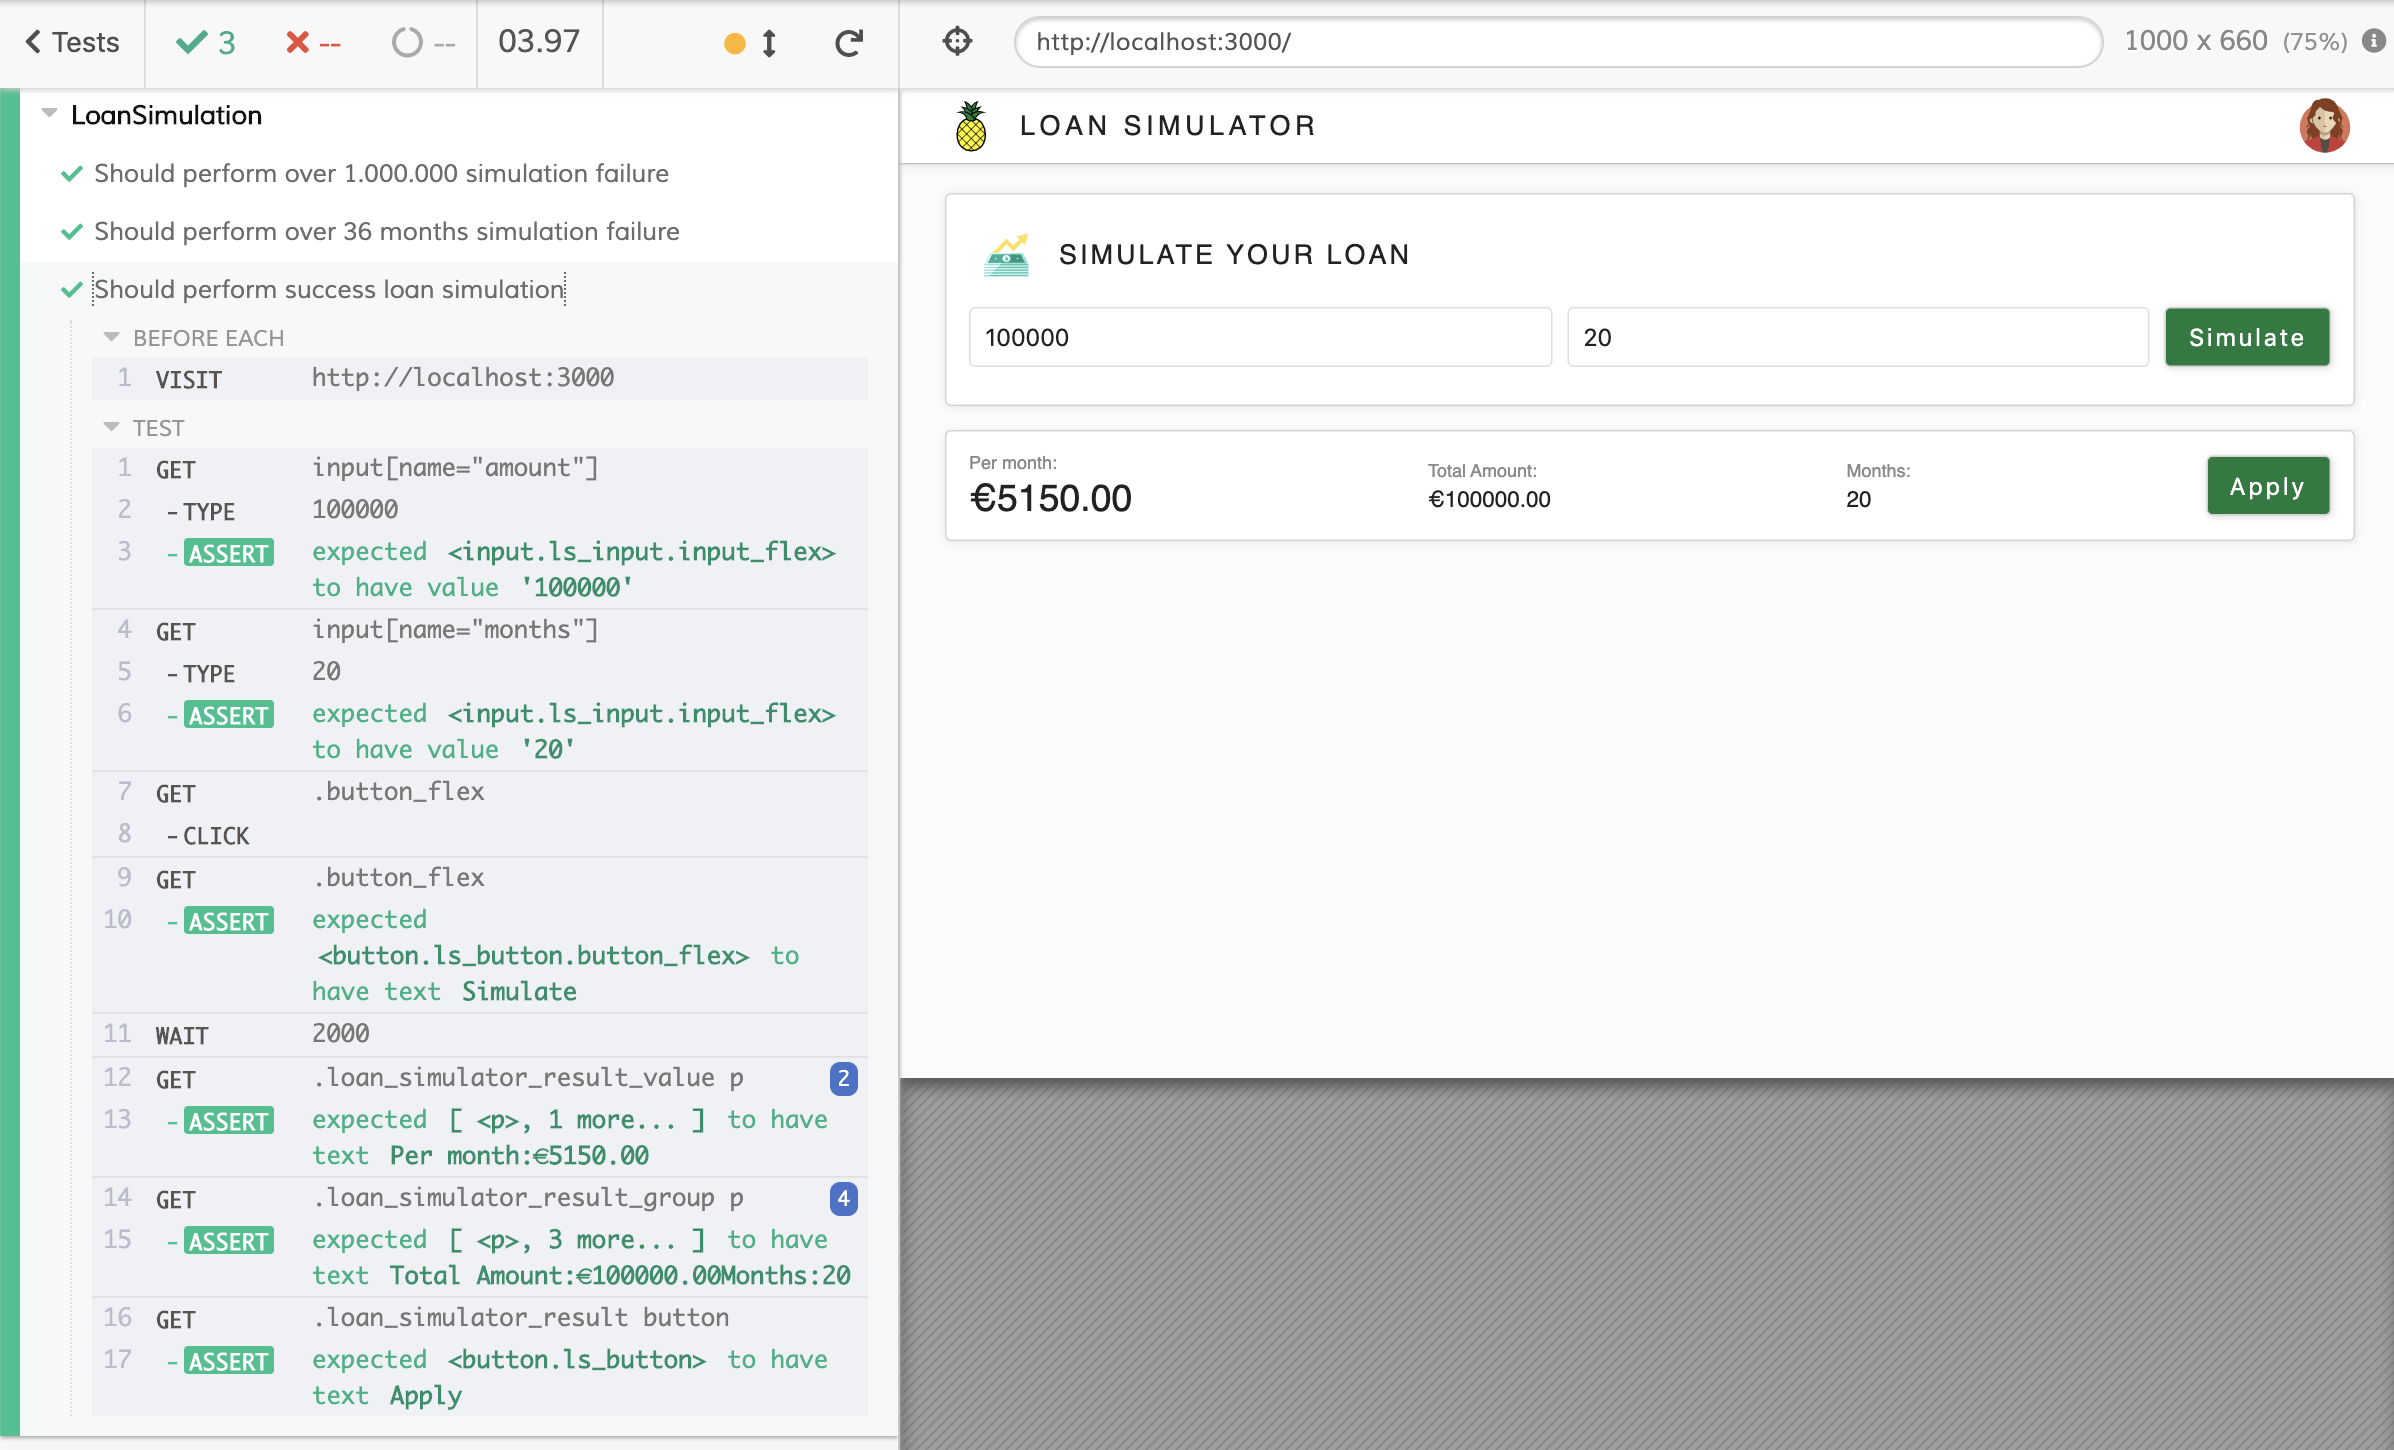
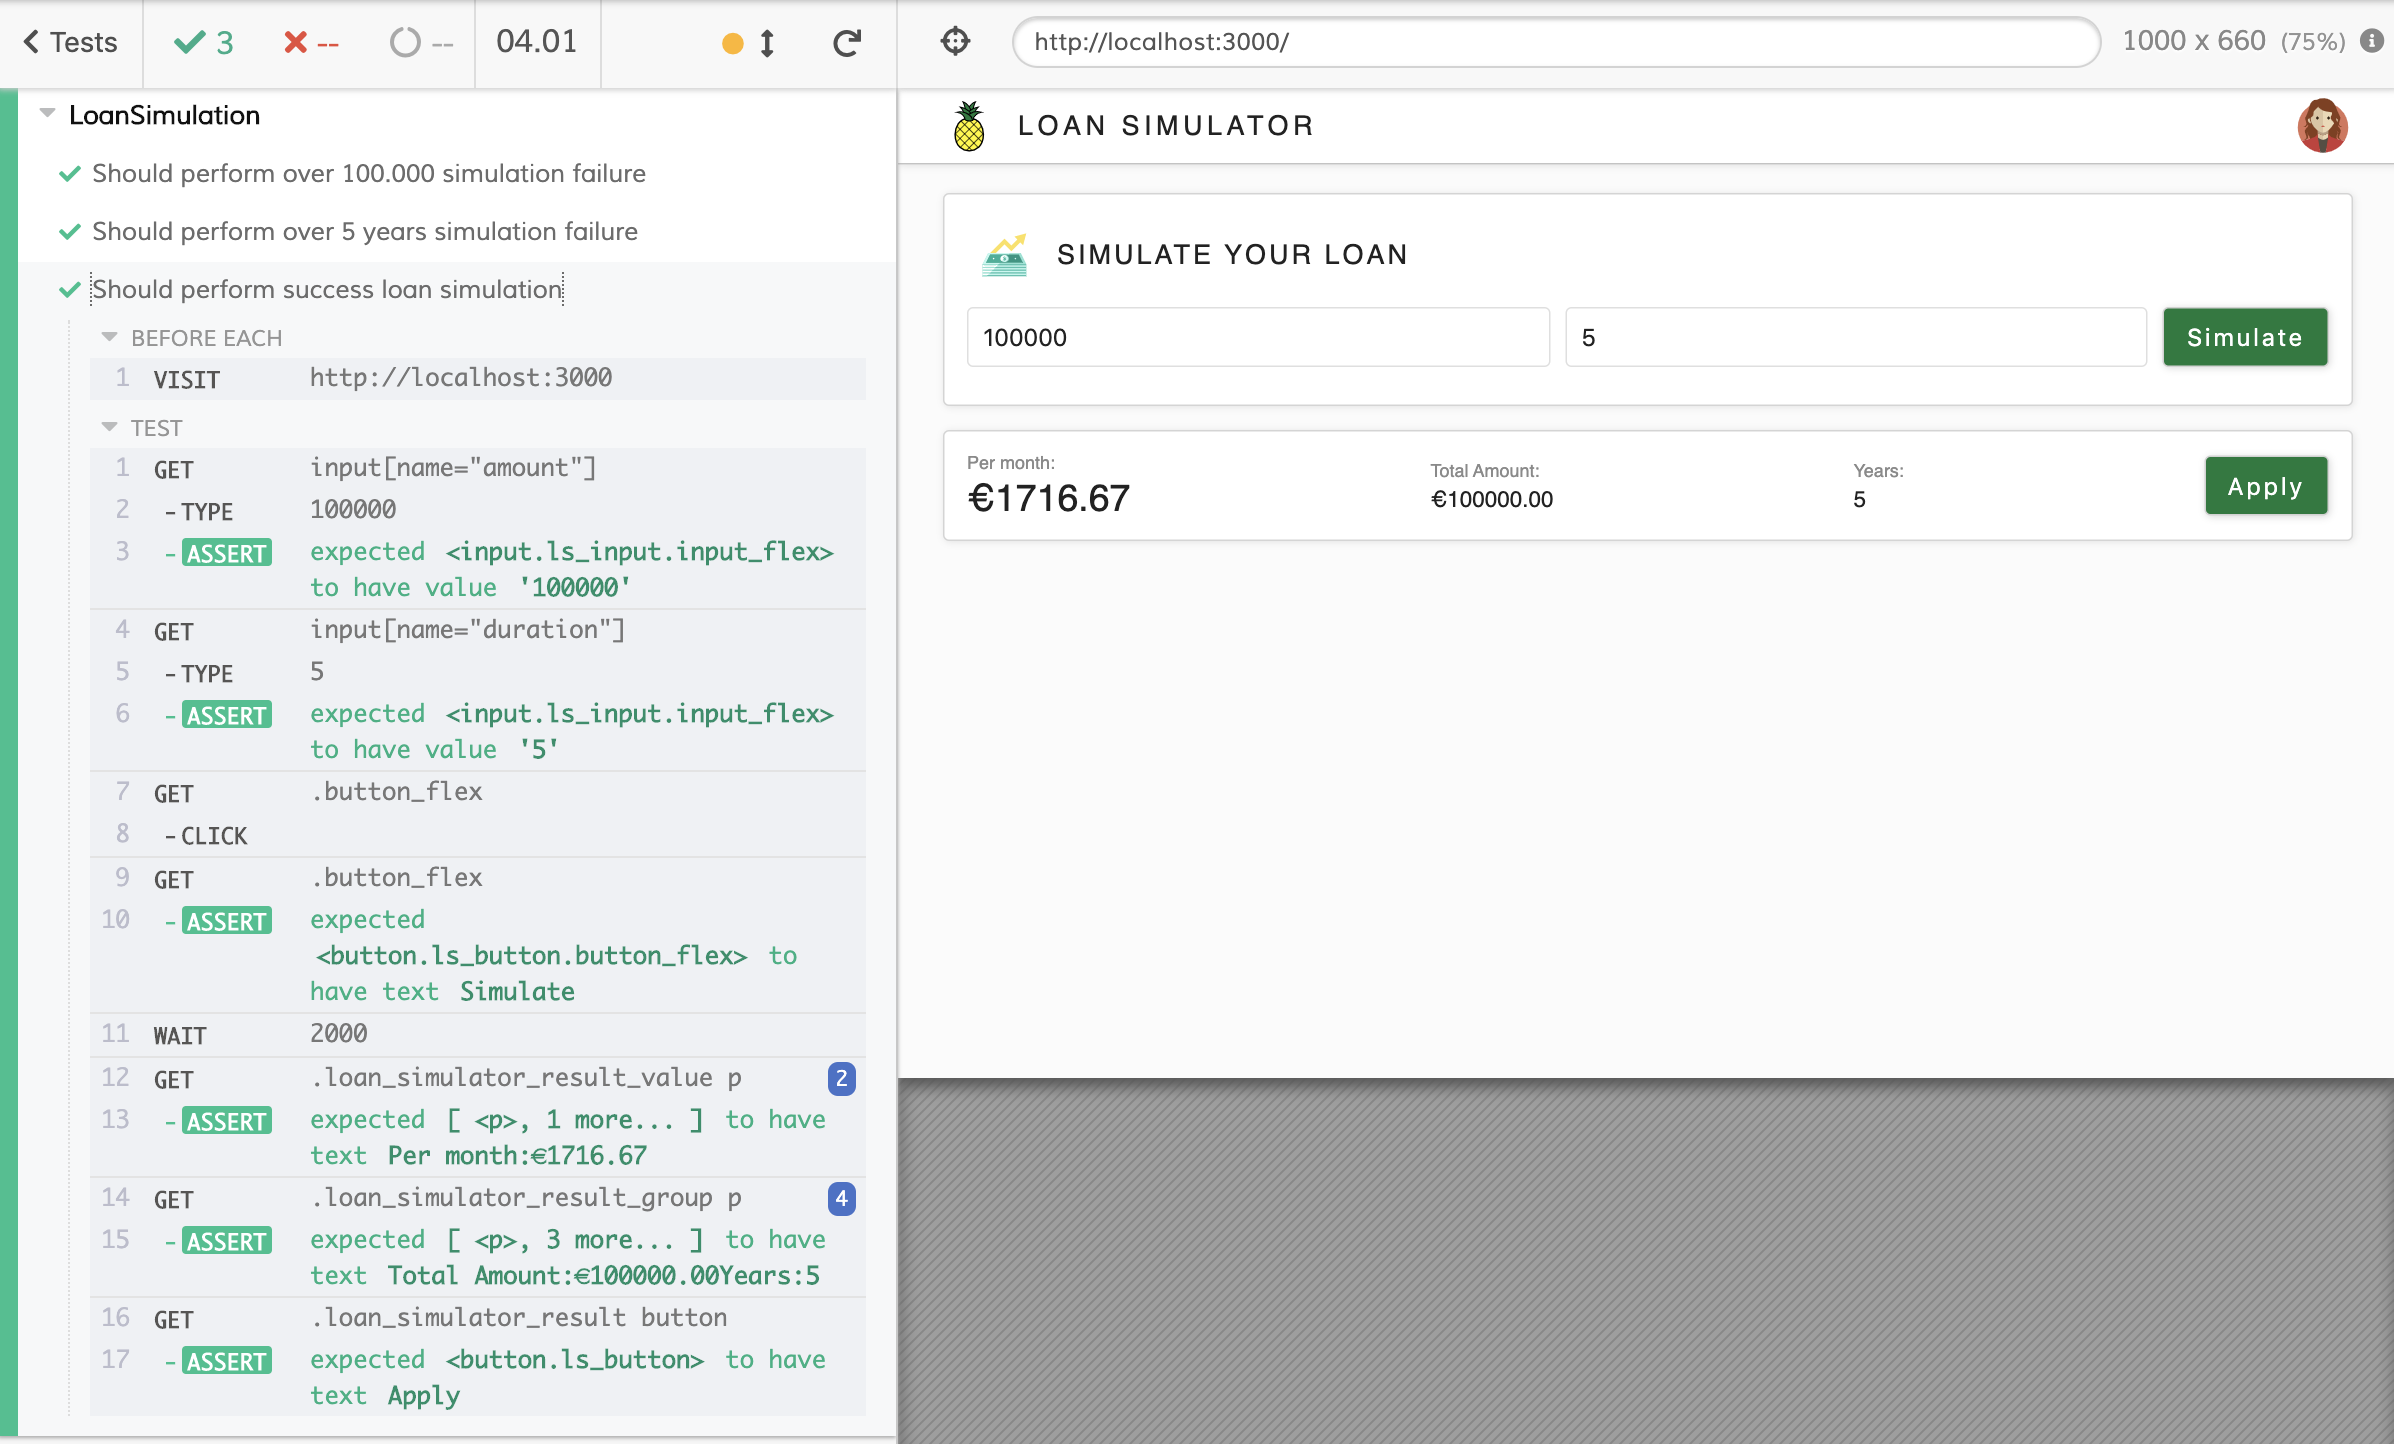
chore(validation): add proper value validation

diff --git a/cypress/integration/loan_simulation_flow.spec.js b/cypress/integration/loan_simulation_flow.spec.js
@@ -7,13 +7,13 @@ context('LoanSimulation', () => {
 
   // https://on.cypress.io/interacting-with-elements
 
-  it('Should perform over 1.000.000 simulation failure', () => {
+  it('Should perform over 100.000 simulation failure', () => {
     // https://on.cypress.io/type
     cy.get('input[name="amount"]')
-      .type(1000001).should('have.value', '1000001')
+      .type(100001).should('have.value', '100001')
 
-    cy.get('input[name="months"]')
-      .type(20).should('have.value', '20')
+    cy.get('input[name="duration"]')
+      .type(5).should('have.value', '5')
 
     cy.get('.button_flex')
       .click()
@@ -22,16 +22,16 @@ context('LoanSimulation', () => {
     
     cy.wait(100)
 
-    cy.get('.loan_simulator_error').should('have.text', 'We are not doing loans of more then € 1.000.000 at this moment.')
+    cy.get('.loan_simulator_error').should('have.text', 'We are not doing loans of more then € 100.000 at this moment.')
   })
 
-  it('Should perform over 36 months simulation failure', () => {
+  it('Should perform over 5 years simulation failure', () => {
     // https://on.cypress.io/type
     cy.get('input[name="amount"]')
       .type(100000).should('have.value', '100000')
 
-    cy.get('input[name="months"]')
-      .type(37).should('have.value', '37')
+    cy.get('input[name="duration"]')
+      .type(6).should('have.value', '6')
 
     cy.get('.button_flex')
       .click()
@@ -40,7 +40,7 @@ context('LoanSimulation', () => {
     
     cy.wait(100)
 
-    cy.get('.loan_simulator_error').should('have.text', 'Loan can not be created for more then 36 months (3 years).')
+    cy.get('.loan_simulator_error').should('have.text', 'Loan can not be created for more then 5 years.')
   })
 
   it('Should perform success loan simulation', () => {
@@ -48,8 +48,8 @@ context('LoanSimulation', () => {
     cy.get('input[name="amount"]')
       .type(100000).should('have.value', '100000')
 
-    cy.get('input[name="months"]')
-      .type(20).should('have.value', '20')
+    cy.get('input[name="duration"]')
+      .type(5).should('have.value', '5')
 
     cy.get('.button_flex')
       .click()
@@ -58,8 +58,8 @@ context('LoanSimulation', () => {
     
     cy.wait(2000)
 
-    cy.get('.loan_simulator_result_value p').should('have.text', 'Per month:€5150.00')
-    cy.get('.loan_simulator_result_group p').should('have.text', 'Total Amount:€100000.00Months:20')
+    cy.get('.loan_simulator_result_value p').should('have.text', 'Per month:€1716.67')
+    cy.get('.loan_simulator_result_group p').should('have.text', 'Total Amount:€100000.00Years:5')
     cy.get('.loan_simulator_result button').should('have.text', 'Apply')
   })
 })

diff --git a/src/components/LoanSimulator/index.js b/src/components/LoanSimulator/index.js
@@ -27,7 +27,7 @@ const loanSimulatorResult = ({duration, amount, monthlyInstallment}) => {
                 <p>€{amount.toFixed(2)}</p>
             </div>
             <div className="loan_simulator_result_group">
-                <p>Months:</p>
+                <p>Years:</p>
                 <p>{duration}</p>
             </div>
             <Button>Apply</Button>
@@ -57,7 +57,7 @@ function LoanSimulator() {
     const simulateLoan = (event) => {
         event.preventDefault()
         const amount = parseInt(event.target.amount.value)
-        const duration = parseInt(event.target.months.value)
+        const duration = parseInt(event.target.duration.value)
         
         setLoading(true)
         setSimulation(null)
@@ -65,12 +65,8 @@ function LoanSimulator() {
 
         Loan
             .simulate({ amount, duration })
-            .then((response) => {
-                setSimulation(response)
-            })
-            .catch((e) => {
-                setError(e.message)
-            })
+            .then((response) => setSimulation(response))
+            .catch((error) => setError(error.message))
             .finally(() => setLoading(false))
     }
 
@@ -84,20 +80,18 @@ function LoanSimulator() {
                 <form className="loan_simulator_content" onSubmit={simulateLoan}>
                     <Input
                         required
-                        min={1}
+                        min={10000}
                         name="amount"
                         className="input_flex"
-                        label="Amount"
                         placeholder="Amount"
                         type="number"
                     />
                     <Input
                         required
                         min={1}
-                        name="months"
+                        name="duration"
                         className="input_flex"
-                        label="Months"
-                        placeholder="Duration - months"
+                        placeholder="Duration - years"
                         type="number"
                     />
                     <Button className="button_flex">Simulate</Button>

diff --git a/src/api/loan/Loan.test.js b/src/api/loan/Loan.test.js
@@ -1,11 +1,11 @@
 import Loan from './index';
 
 describe('Loan.simulation', () => {
-    const validRequest = { amount: 100000, duration: 12 }
-    const invalidRequestAmount = { amount: 1000001, duration: 12 }
-    const invalidRequestDuration = { amount: 100000, duration: 37 }
-    const invalidRequestNegativeDuration = { amount: 100000, duration: -37 }
-    const invalidRequestNegativeAmount = { amount: -100000, duration: 12 }
+    const validRequest = { amount: 100000, duration: 5 }
+    const invalidRequestAmount = { amount: 100001, duration: 5 }
+    const invalidRequestDuration = { amount: 100000, duration: 6 }
+    const invalidRequestNegativeDuration = { amount: 100000, duration: -5 }
+    const invalidRequestNegativeAmount = { amount: -100000, duration: 5 }
 
     jest.useFakeTimers();
 
@@ -13,7 +13,7 @@ describe('Loan.simulation', () => {
         Loan
             .simulate(validRequest)
             .then((response) => {
-                expect(response).toEqual({ ...validRequest, monthlyInstallment: 8583.333333333334 })
+                expect(response).toEqual({ ...validRequest, monthlyInstallment: 1716.6666666666667 })
                 done()
             })
         jest.runAllTimers();
@@ -23,7 +23,7 @@ describe('Loan.simulation', () => {
         Loan
             .simulate(invalidRequestDuration)
             .catch((error) => {
-                expect(error.message).toEqual('Loan can not be created for more then 36 months (3 years).')
+                expect(error.message).toEqual('Loan can not be created for more then 5 years.')
                 done()
             })
         jest.runAllTimers();
@@ -33,7 +33,7 @@ describe('Loan.simulation', () => {
         Loan
             .simulate(invalidRequestAmount)
             .catch((error) => {
-                expect(error.message).toEqual('We are not doing loans of more then € 1.000.000 at this moment.')
+                expect(error.message).toEqual('We are not doing loans of more then € 100.000 at this moment.')
                 done()
             })
         jest.runAllTimers();

diff --git a/src/api/loan/index.js b/src/api/loan/index.js
@@ -2,7 +2,7 @@ const FAKE_DELLAY = 1500
 const MONTHLY_INTEREST = 1.03;
 
 const simulateLoan = (duration, amount) => {
-    const monthlyInstallment = (amount / duration) * MONTHLY_INTEREST
+    const monthlyInstallment = (amount / (duration * 12)) * MONTHLY_INTEREST
     return {
         amount,
         duration,
@@ -16,12 +16,12 @@ const simulate = ({ duration, amount }) => {
             reject({ message: 'We can not run any simulation under negative values' })
         }
 
-        if (duration > 36) {
-            reject({ message: 'Loan can not be created for more then 36 months (3 years).' })
+        if (duration > 5) {
+            reject({ message: 'Loan can not be created for more then 5 years.' })
         }
 
-        if (amount > 1000000) {
-            reject({ message: 'We are not doing loans of more then € 1.000.000 at this moment.' })
+        if (amount > 100000) {
+            reject({ message: 'We are not doing loans of more then € 100.000 at this moment.' })
         }
 
         setTimeout(() => resolve(simulateLoan(duration, amount)), FAKE_DELLAY)

diff --git a/README.md b/README.md
@@ -49,3 +49,7 @@ To run then just use the command
 `yarn cy:open`
 
 and then choose `loan_simulation_flow.spec.js`
+
+### TL;DR
+
+All used icons are free and they can be found in https://www.iconfinder.com/
